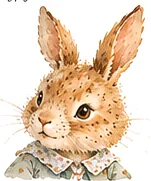
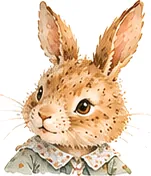
Анкета: живая полоса прогресса (по прокрутке, прилипает под шапкой), вырезка «Любопытный» без точек
Раньше полоса была нарисована заранее — 2 из 5 закрашены всегда. Теперь закрашено столько страниц,
сколько пройдено; для программ чтения экрана — «Страница N из 5». Шапка непрозрачная, образец 3D в палитре листа.

diff --git a/create.html b/create.html
@@ -586,8 +586,8 @@ section.tight{ padding:56px 0; }
         <span>Анкета уже заполнена по первой книге — те же герой, друзья и близкие. Можно что-то поправить: например, рассказать, что нового у ребёнка с тех пор. Сюжет будет новым и законченным.</span>
         <button type="button" id="sequelCancel">Нет, начать новую книгу</button>
       </div>
-      <div class="progress-track">
-        <span class="done"></span><span class="done"></span><span></span><span></span><span></span>
+      <div class="progress-track" id="progressTrack" role="img" aria-label="Страница 1 из 5">
+        <span class="done"></span><span></span><span></span><span></span><span></span>
       </div>
 
       <!-- Шаг 1 — герой -->
@@ -995,6 +995,32 @@ section.tight{ padding:56px 0; }
       });
     }
 
+    // Полоса прогресса: закрашено столько страниц анкеты, сколько уже пройдено (по прокрутке).
+    // «Оформление» (только для Нового года) считается частью третьей страницы.
+    function attachProgress() {
+      const track = document.getElementById('progressTrack');
+      if (!track) return;
+      const bars = track.querySelectorAll('span');
+      const pages = Array.prototype.filter.call(document.querySelectorAll('.form-shell .form-step'), function (step) { return step.id !== 'designStep'; });
+      let shown = -1;
+      function update() {
+        const line = window.innerHeight * 0.45; // страница «открыта», когда её начало поднялось выше середины экрана
+        let current = 0;
+        pages.forEach(function (step, i) { if (step.getBoundingClientRect().top < line) current = i; });
+        if (current === shown) return;
+        shown = current;
+        bars.forEach(function (bar, i) { bar.classList.toggle('done', i <= current); });
+        track.setAttribute('aria-label', 'Страница ' + (current + 1) + ' из ' + pages.length);
+      }
+      // полоса прилипает ровно под шапкой (её высота разная на компьютере и телефоне)
+      const header = document.querySelector('.site-header');
+      function stick() { if (header) track.style.top = (header.offsetHeight - 1) + 'px'; }
+      window.addEventListener('scroll', update, { passive: true });
+      window.addEventListener('resize', function () { stick(); update(); });
+      stick();
+      update();
+    }
+
     // Карточки выбора — переключатели и для клавиатуры (Tab, Enter/пробел), и для программ чтения экрана
     function attachChoiceSelection() {
       const sync = function () {
@@ -1244,6 +1270,7 @@ section.tight{ padding:56px 0; }
     }
 
     attachChoiceSelection();
+    attachProgress();
     attachPhotoUpload();
 
     // ?sequel=1 — продолжение прошлой книги: анкета заполняется по ней, в запрос уходит краткое содержание первой книги

diff --git a/assets/geroenok.css b/assets/geroenok.css
@@ -81,7 +81,7 @@ a:focus-visible, button:focus-visible, input:focus-visible, textarea:focus-visib
 
 /* ---------- шапка: светлая, как верх страницы книги ---------- */
 .site-header{
-  background:rgba(246,243,231,.94);
+  background-color:var(--paper); /* непрозрачная: под прилипшей шапкой текст не просвечивает */
   background-image:var(--paper-grain);
   color:var(--text);
   border-bottom:1px solid var(--line);
@@ -458,3 +458,14 @@ a:focus-visible, button:focus-visible, input:focus-visible, textarea:focus-visib
   .nav-mobile-label{ position:absolute; width:1px; height:1px; overflow:hidden; clip:rect(0 0 0 0); white-space:nowrap; }
   .site-header .container{ gap:8px; }
 }
+
+/* полоса прогресса анкеты видна всё время заполнения — прилипает под шапкой */
+.progress-track{
+  position:sticky; top:70px; z-index:5;
+  background:var(--card); padding-bottom:14px; margin-bottom:-14px;
+  border-radius:var(--radius-l) var(--radius-l) 0 0;
+}
+.progress-track span{ transition:background .4s ease; }
+@media (max-width:880px){ .progress-track{ top:64px; } }
+.form-shell{ overflow:clip; } /* обрезает углы как hidden, но не ломает прилипающую полосу прогресса */
+.style-sample.is-3d{ background:linear-gradient(160deg,#DCE4DA,#AAB8A2 55%,#7C9CA3); }

diff --git a/scripts/brand_assets.py b/scripts/brand_assets.py
@@ -24,7 +24,7 @@ CROPS = {
     'geroenok-main': ('geroenok-main.png', (60, 40, 990, 1490), (360, 560, 820)),
     # эмоции (головы)
     'emotion-joyful': (SHEET, (84, 71, 229, 272), ()),
-    'emotion-curious': (SHEET, (299, 88, 451, 272), ()),
+    'emotion-curious': (SHEET, (299, 91, 451, 272), ()),
     'emotion-thoughtful': (SHEET, (526, 71, 708, 272), ()),
     'emotion-surprised': (SHEET, (768, 71, 894, 272), ()),
     'emotion-smile': (SHEET, (83, 303, 240, 495), ()),
